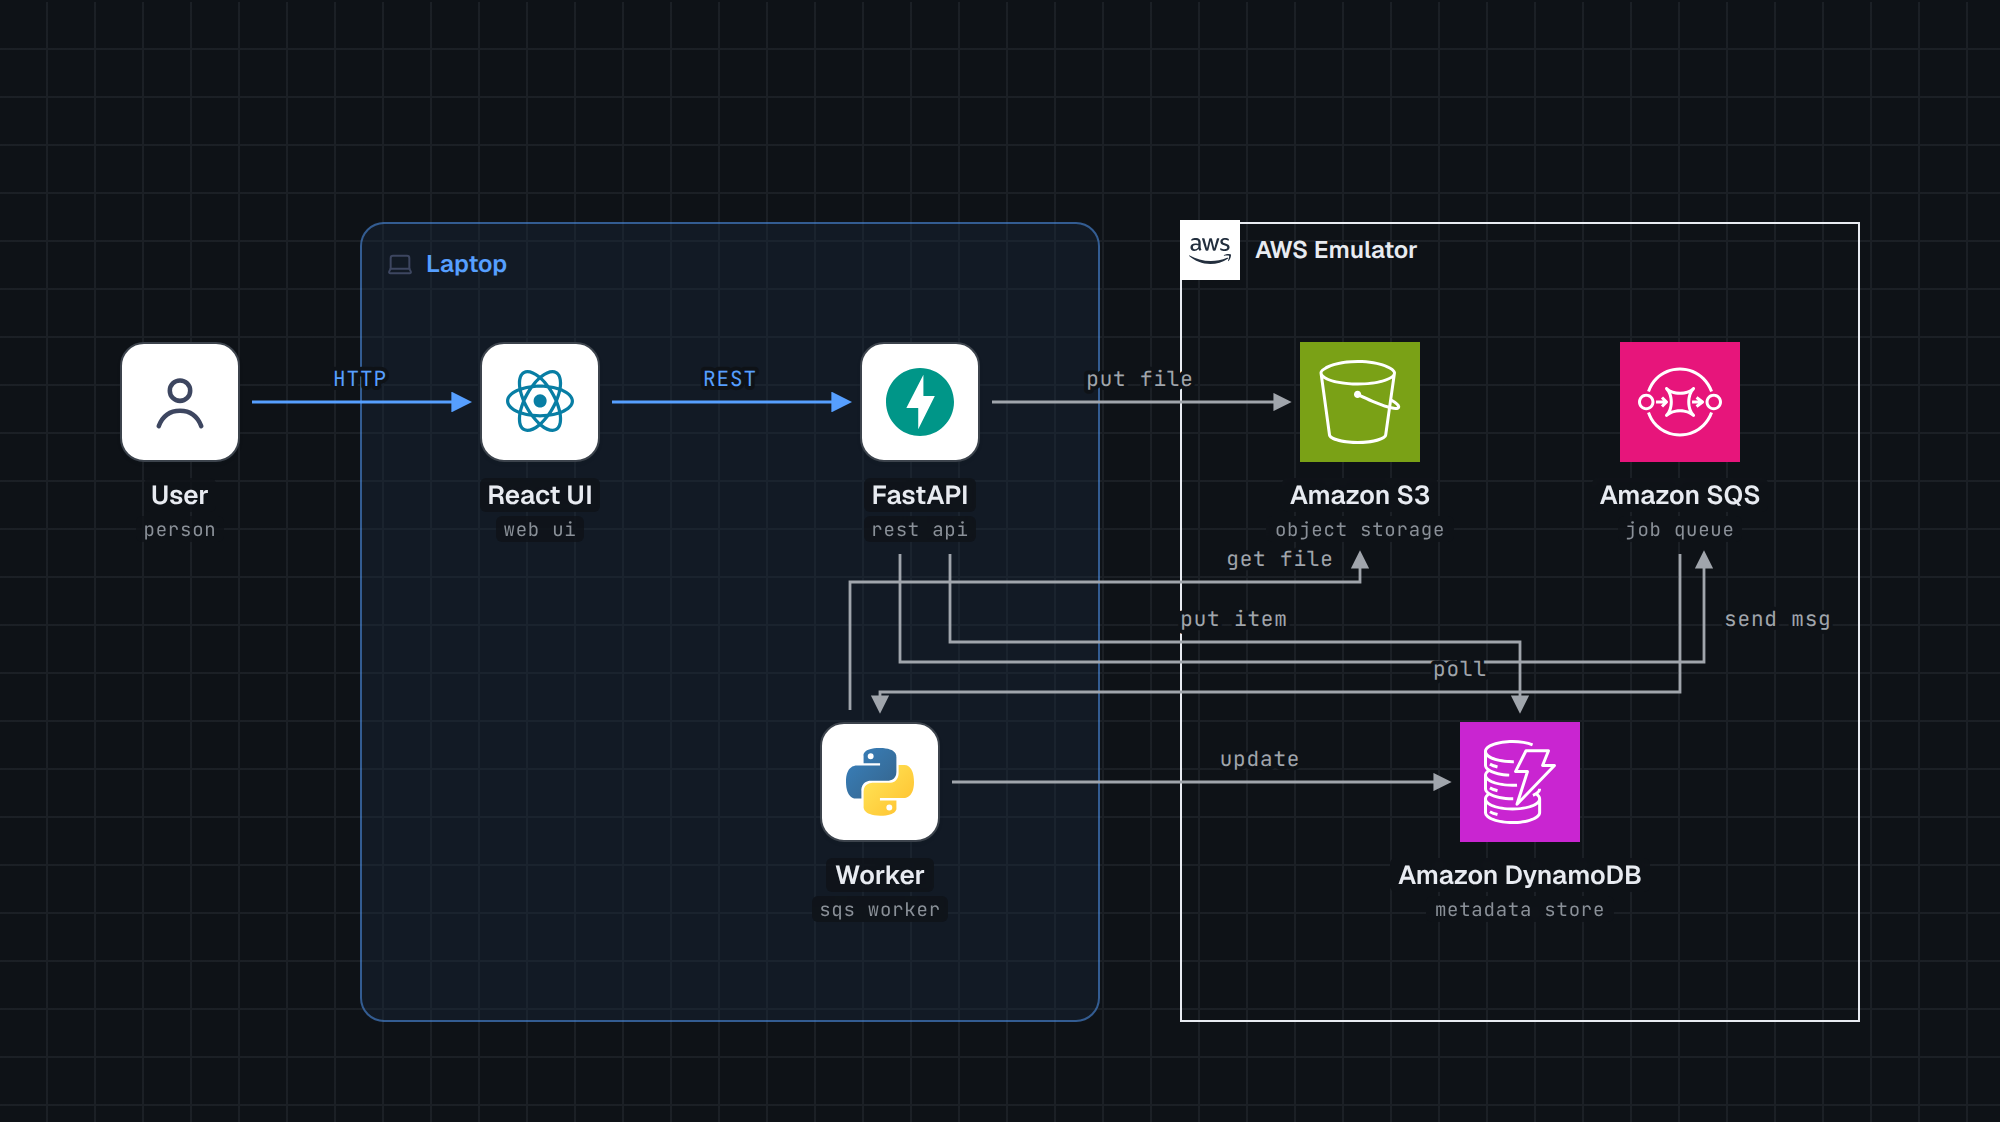
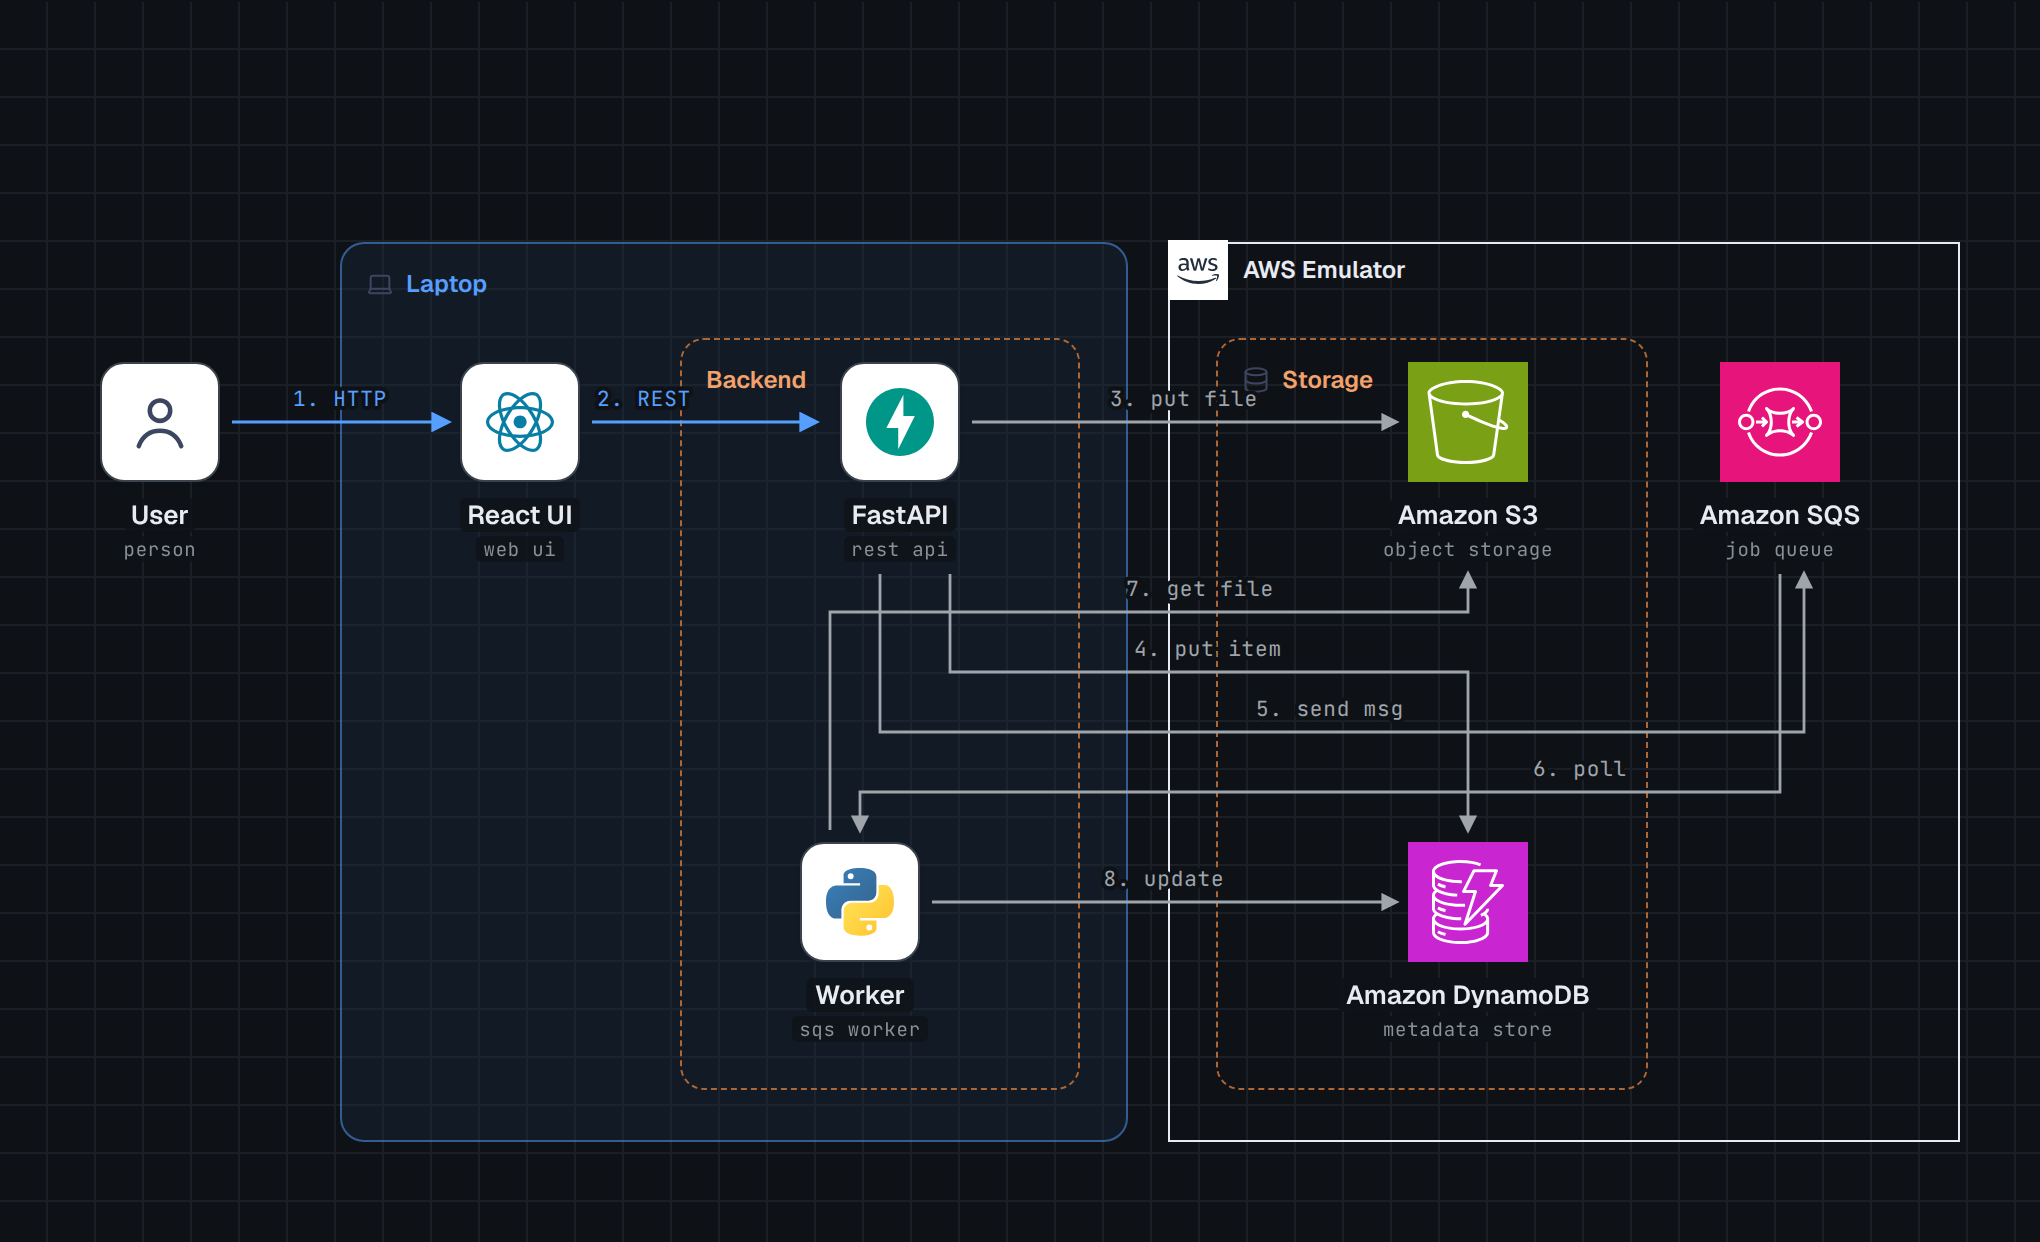
Restructure architecture diagram: nested groups, numbered flow

diff --git a/docs/architecture.html b/docs/architecture.html
@@ -82,7 +82,7 @@ h1 { font-family: var(--font-display); font-weight: 700; font-size: clamp(22px, 
 
 .scroller { overflow-x: auto; border: 1px solid var(--color-rule-2); border-radius: var(--radius-card); }
 /* CANVAS SIZE: set width/height here AND on svg.edges AND its viewBox — keep the three in sync */
-.canvas { position: relative; width: 1000px; height: 560px; background: var(--color-paper);
+.canvas { position: relative; width: 1020px; height: 620px; background: var(--color-paper);
   background-image:
     linear-gradient(var(--color-rule) 1px, transparent 1px),
     linear-gradient(90deg, var(--color-rule) 1px, transparent 1px);
@@ -145,7 +145,7 @@ h1 { font-family: var(--font-display); font-weight: 700; font-size: clamp(22px, 
 .node .name span, .node .role span { background: var(--color-veil); backdrop-filter: blur(1.5px);
   padding: 0 var(--space-xs); border-radius: 3px; -webkit-box-decoration-break: clone; box-decoration-break: clone; }
 
-svg.edges { position:absolute; inset:0; width:1000px; height:560px; pointer-events:none; }
+svg.edges { position:absolute; inset:0; width:1020px; height:620px; pointer-events:none; }
 .e  { stroke: var(--color-accent); stroke-width:1.6; fill:none; }   /* primary flow */
 .n  { stroke: var(--color-neutral); stroke-width:1.4; fill:none; }  /* internal */
 path.aws { stroke: var(--color-ink); stroke-width:1.6; fill:none; }
@@ -176,7 +176,7 @@ path.aws { stroke: var(--color-ink); stroke-width:1.6; fill:none; }
       <div class="kicker">emulator-file-pipeline-poc</div>
       <h1>File processing pipeline</h1>
     </div>
-    <p class="lede">The React UI uploads files to FastAPI, which stores them in S3, writes PENDING rows to DynamoDB and enqueues SQS jobs. A Python worker processes each file — everything local, on AWS Emulator.</p>
+    <p class="lede">The React UI uploads files to FastAPI, which stores them in S3, writes PENDING rows to DynamoDB and enqueues SQS jobs. A Python worker processes each file — everything local, on AWS Emulator. Edges are numbered in flow order.</p>
   </header>
 
   <div class="scroller">
@@ -191,15 +191,21 @@ path.aws { stroke: var(--color-ink); stroke-width:1.6; fill:none; }
          Google Cloud groups: "group gcp", or add region | vpc | subnet | zone
          Azure groups: "group azure", or add rg | region | vnet | subnet | zone
          geometry rules: references/geometry.md -->
-    <div class="group gb" style="left:180px; top:110px; width:370px; height:400px;">
+    <div class="group gb" style="left:170px; top:120px; width:394px; height:450px;">
[1 lines of base64/hex data omitted]
     </div>
-    <div class="group aws" style="left:590px; top:110px; width:340px; height:400px;">
+    <div class="group ga-nested" style="left:340px; top:168px; width:200px; height:376px;">
+      <div class="g-label">Backend</div>
+    </div>
+    <div class="group aws" style="left:584px; top:120px; width:396px; height:450px;">
[1 lines of base64/hex data omitted]
+    </div>
+    <div class="group ga-nested" style="left:608px; top:168px; width:216px; height:376px;">
[1 lines of base64/hex data omitted]
     </div>
 
     <!-- EDGES ============================================================= -->
-    <svg class="edges" viewBox="0 0 1000 560" aria-hidden="true">
+    <svg class="edges" viewBox="0 0 1020 620" aria-hidden="true">
       <defs>
         <!-- context-stroke inherits the line's color, so theme switches (incl. dark)
              recolor arrowheads automatically. #open is for AWS diagrams -->
@@ -210,51 +216,51 @@ path.aws { stroke: var(--color-ink); stroke-width:1.6; fill:none; }
           <path d="M1 1 L9 5 L1 9" fill="none" stroke="context-stroke" stroke-width="1.5"/>
         </marker>
       </defs>
-      <path class="e" d="M126 200 H234" marker-end="url(#ar)"/>
-      <text class="el a" x="180" y="192" text-anchor="middle">HTTP</text>
-      <path class="e" d="M306 200 H424" marker-end="url(#ar)"/>
-      <text class="el a" x="365" y="192" text-anchor="middle">REST</text>
-      <path class="n" d="M496 200 H644" marker-end="url(#ar)"/>
-      <text class="el" x="570" y="192" text-anchor="middle">put file</text>
-      <path class="n" d="M450 276 V330 H852 V276" marker-end="url(#ar)"/>
-      <text class="el" x="862" y="312">send msg</text>
-      <path class="n" d="M475 276 V320 H760 V354" marker-end="url(#ar)"/>
-      <text class="el" x="617" y="312" text-anchor="middle">put item</text>
-      <path class="n" d="M840 276 V345 H440 V354" marker-end="url(#ar)"/>
-      <text class="el" x="730" y="337" text-anchor="middle">poll</text>
-      <path class="n" d="M425 354 V290 H680 V276" marker-end="url(#ar)"/>
-      <text class="el" x="640" y="282" text-anchor="middle">get file</text>
-      <path class="n" d="M476 390 H724" marker-end="url(#ar)"/>
-      <text class="el" x="630" y="382" text-anchor="middle">update</text>
+      <path class="e" d="M116 210 H224" marker-end="url(#ar)"/>
+      <text class="el a" x="170" y="202" text-anchor="middle">1. HTTP</text>
+      <path class="e" d="M296 210 H408" marker-end="url(#ar)"/>
+      <text class="el a" x="322" y="202" text-anchor="middle">2. REST</text>
+      <path class="n" d="M486 210 H698" marker-end="url(#ar)"/>
+      <text class="el" x="592" y="202" text-anchor="middle">3. put file</text>
+      <path class="n" d="M475 286 V335 H734 V414" marker-end="url(#ar)"/>
+      <text class="el" x="604" y="327" text-anchor="middle">4. put item</text>
+      <path class="n" d="M440 286 V365 H902 V286" marker-end="url(#ar)"/>
+      <text class="el" x="665" y="357" text-anchor="middle">5. send msg</text>
+      <path class="n" d="M890 286 V395 H430 V414" marker-end="url(#ar)"/>
+      <text class="el" x="790" y="387" text-anchor="middle">6. poll</text>
+      <path class="n" d="M415 414 V305 H734 V286" marker-end="url(#ar)"/>
+      <text class="el" x="600" y="297" text-anchor="middle">7. get file</text>
+      <path class="n" d="M466 450 H698" marker-end="url(#ar)"/>
+      <text class="el" x="582" y="442" text-anchor="middle">8. update</text>
     </svg>
 
     <!-- NODES ============================================================= -->
     <!-- node: left = centerX-66; tile classes: (default) | wide | dark | bare | bare res -->
-    <div class="node" style="left:24px;top:170px">
+    <div class="node" style="left:14px;top:180px">
[1 lines of base64/hex data omitted]
       <div class="name"><span>User</span></div><div class="role"><span>person</span></div>
     </div>
-    <div class="node" style="left:204px;top:170px">
+    <div class="node" style="left:194px;top:180px">
[1 lines of base64/hex data omitted]
       <div class="name"><span>React UI</span></div><div class="role"><span>web ui</span></div>
     </div>
-    <div class="node" style="left:394px;top:170px">
+    <div class="node" style="left:384px;top:180px">
[1 lines of base64/hex data omitted]
       <div class="name"><span>FastAPI</span></div><div class="role"><span>rest api</span></div>
     </div>
-    <div class="node" style="left:374px;top:360px">
+    <div class="node" style="left:364px;top:420px">
[1 lines of base64/hex data omitted]
       <div class="name"><span>Worker</span></div><div class="role"><span>sqs worker</span></div>
     </div>
-    <div class="node" style="left:614px;top:170px">
+    <div class="node" style="left:668px;top:180px">
[1 lines of base64/hex data omitted]
       <div class="name"><span>Amazon S3</span></div><div class="role"><span>object storage</span></div>
     </div>
-    <div class="node" style="left:774px;top:170px">
+    <div class="node" style="left:824px;top:180px">
[1 lines of base64/hex data omitted]
       <div class="name"><span>Amazon SQS</span></div><div class="role"><span>job queue</span></div>
     </div>
-    <div class="node" style="left:694px;top:360px">
+    <div class="node" style="left:668px;top:420px">
[1 lines of base64/hex data omitted]
       <div class="name"><span>Amazon DynamoDB</span></div><div class="role"><span>metadata store</span></div>
     </div>
